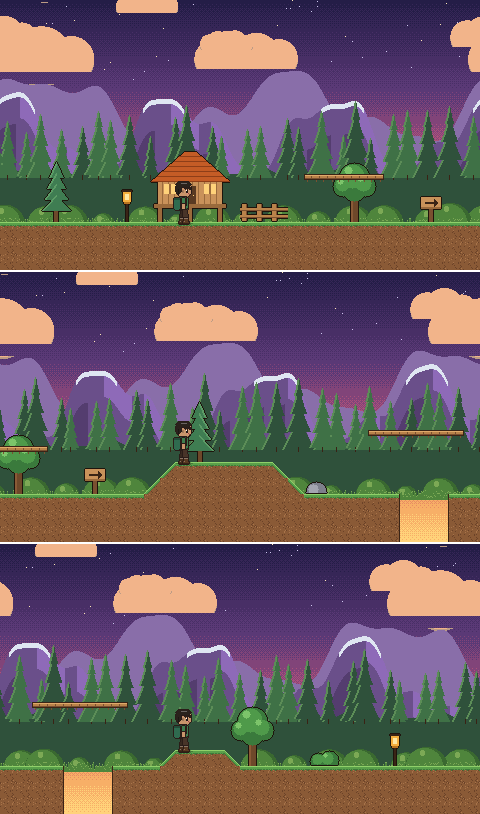
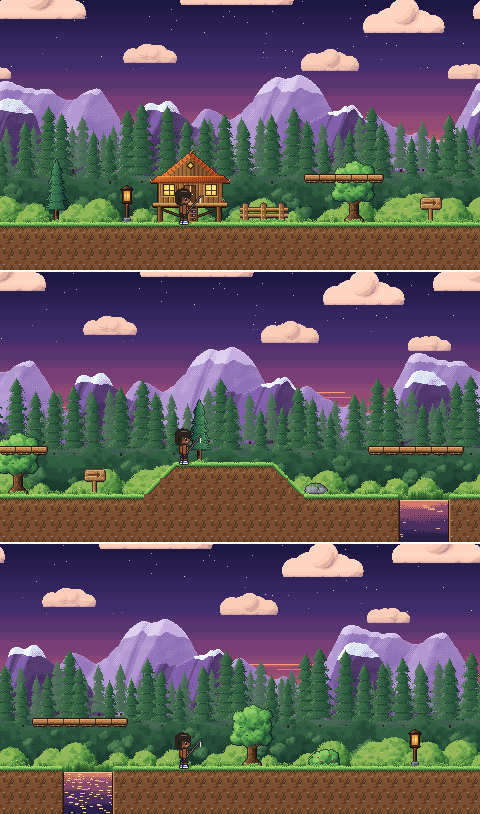
Regenerate README art with the new look and document the night theme

diff --git a/README.md b/README.md
@@ -32,7 +32,7 @@ Build a whole side-scroller level without hand-placing every layer: stack 3–5 
 
 | Parallax | Tiles | Props |
 | --- | --- | --- |
-| sky · far · mid · near, each with its own scroll factor, seamless loop, recolor / tint | ground (16-variant autotile) · one-way platforms · 45° slopes | oak · pine · stilt house · fence · sign · rock · bush · lantern |
+| sky (day · dusk · night) · far clouds / mountains · mid hills / forest · near bushes, each with its own scroll factor, seamless loop, recolor / tint | ground (16-variant autotile) · one-way platforms · 45° slopes, in grass · grass-night · stone | oak · pine · stilt house · fence · sign · rock · bush · lantern |
 
 <p align="center">
   <img src="docs/assets/forest-evening-parallax.png" width="420" alt="Three camera positions showing parallax depth with an Easy Sprite side-view walker" />
@@ -42,6 +42,12 @@ Build a whole side-scroller level without hand-placing every layer: stack 3–5 
 <p align="center">
   <img src="docs/assets/village-day.png" width="720" alt="Village day demo scene" />
 </p>
+
+<p align="center">
+  <img src="docs/assets/lantern-night.png" width="720" alt="Lantern night demo scene with the night sky and grass tileset" />
+</p>
+
+The samples share one light direction (top-left), hue-shifted ramps and dithered atmospheric haze on far layers, so you can mix any sky with any layer. Three themes ship as demo scenes: `village_day`, `forest_evening` and `lantern_night` (`bg_sky_night` + `tiles_grass_night`, with props tinted blue and lanterns left glowing).
 
 ---
 
@@ -73,8 +79,9 @@ npx tsx src/cli.ts info
 npx tsx src/cli.ts parts --kind background
 npx tsx src/cli.ts compose --id forest_evening --name "Forest evening" --width 72 \
   --layers bg_sky_dusk,bg_far_clouds,bg_far_mountains,bg_mid_forest,bg_near_bushes \
-  --color bg_far_mountains=#6a4f8a --tint bg_mid_forest=#ff9a6a@0.25 \
-  --ground 3 --hill 30,6,2 --pit 46,3 --platform 19,3,5 \
+  --color bg_far_mountains=#6a4f8a --tint bg_far_clouds=#ff9a7a@0.4 \
+  --tint bg_mid_forest=#e08a8a@0.35 --tint bg_near_bushes=#ff9a6a@0.25 \
+  --ground 3 --hill 30,6,2 --pit 46,3 --platform 19,3,5 --platform 44,3,6 \
   --prop prop_house@150 --prop prop_tree_pine@520,flip --prop prop_bush@980,front \
   --character ../easysprite/exports/walker_side.png \
   --export all --out ./my-exports
@@ -127,6 +134,7 @@ npm test                 # vitest unit tests
 npm run smoke            # MCP + CLI smoke tests (run npm run init first)
 npm run icons            # re-bake favicon / PWA icons
 npm run capture:ui       # headless Chrome screenshot of the running UI
+npm run docs:images      # re-render the README art in docs/assets (-- --character sheet.png)
 ```
 
 ### Security
